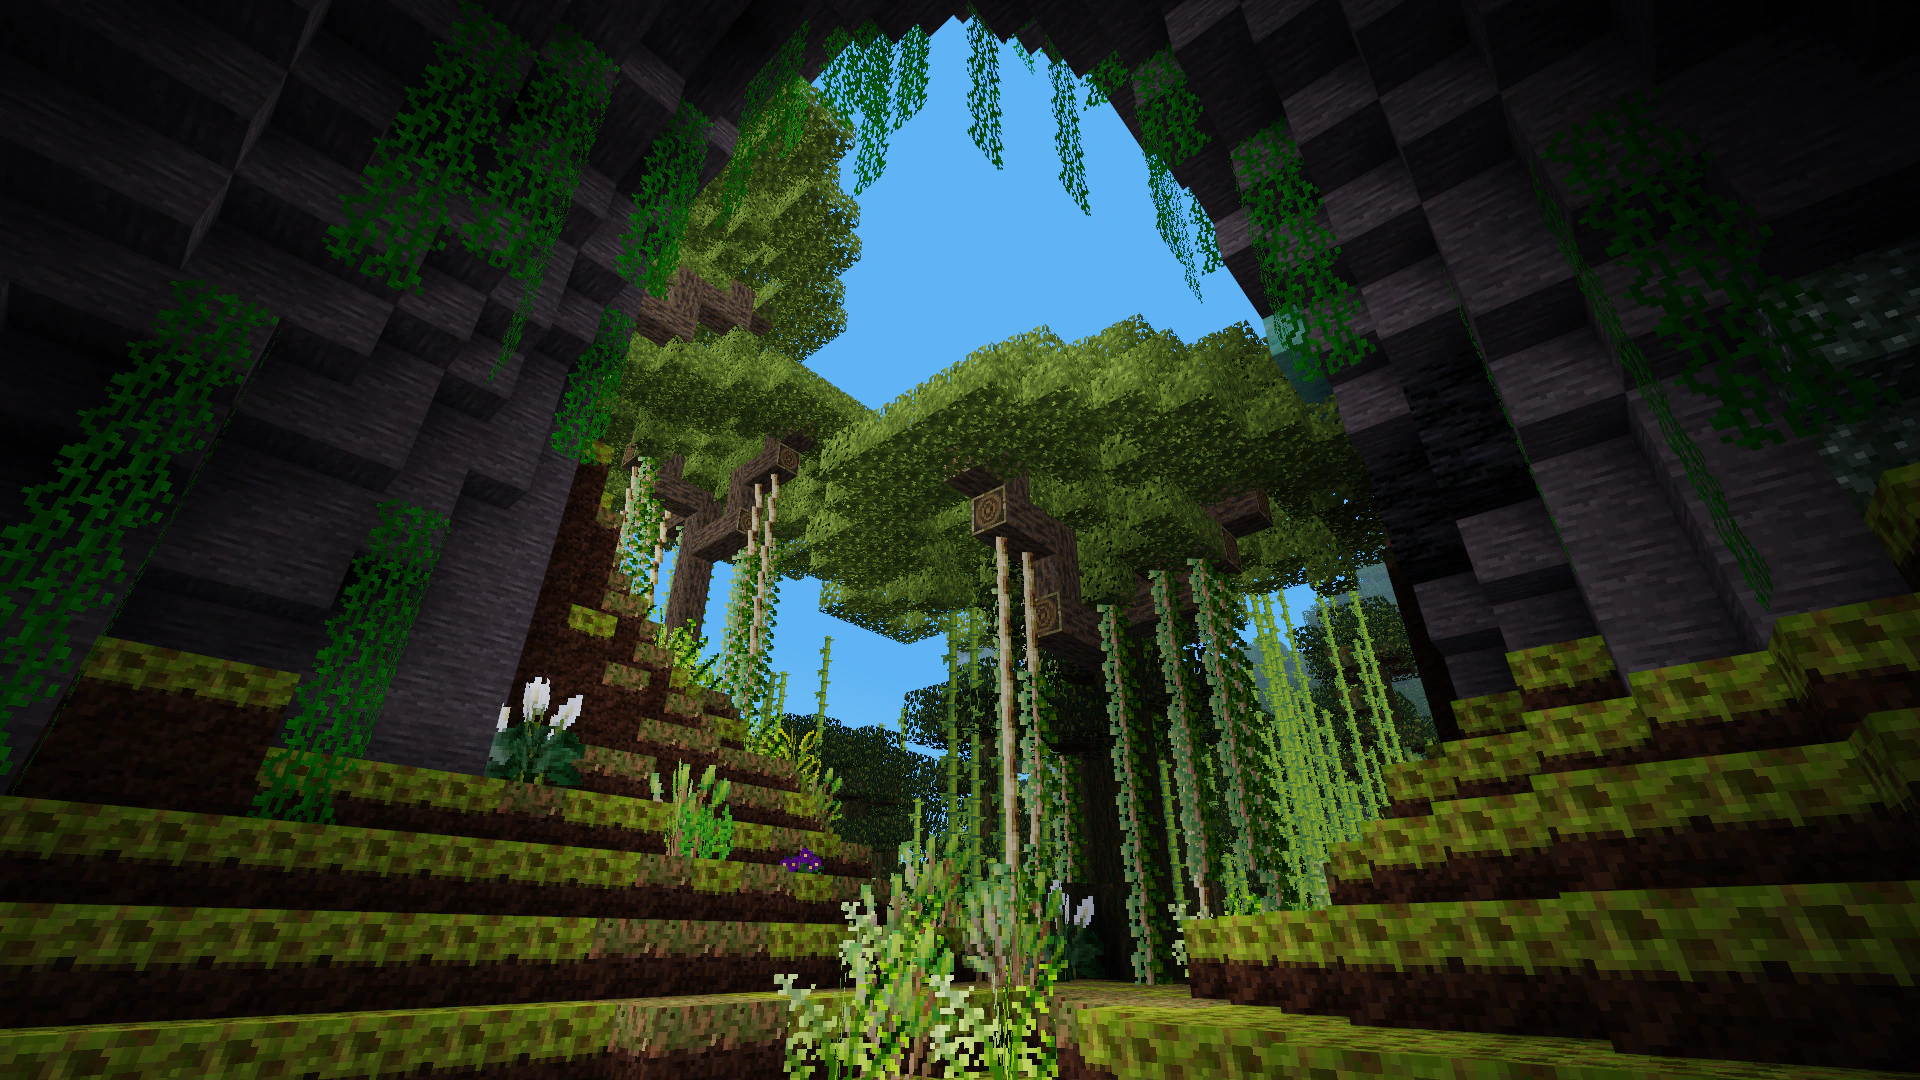
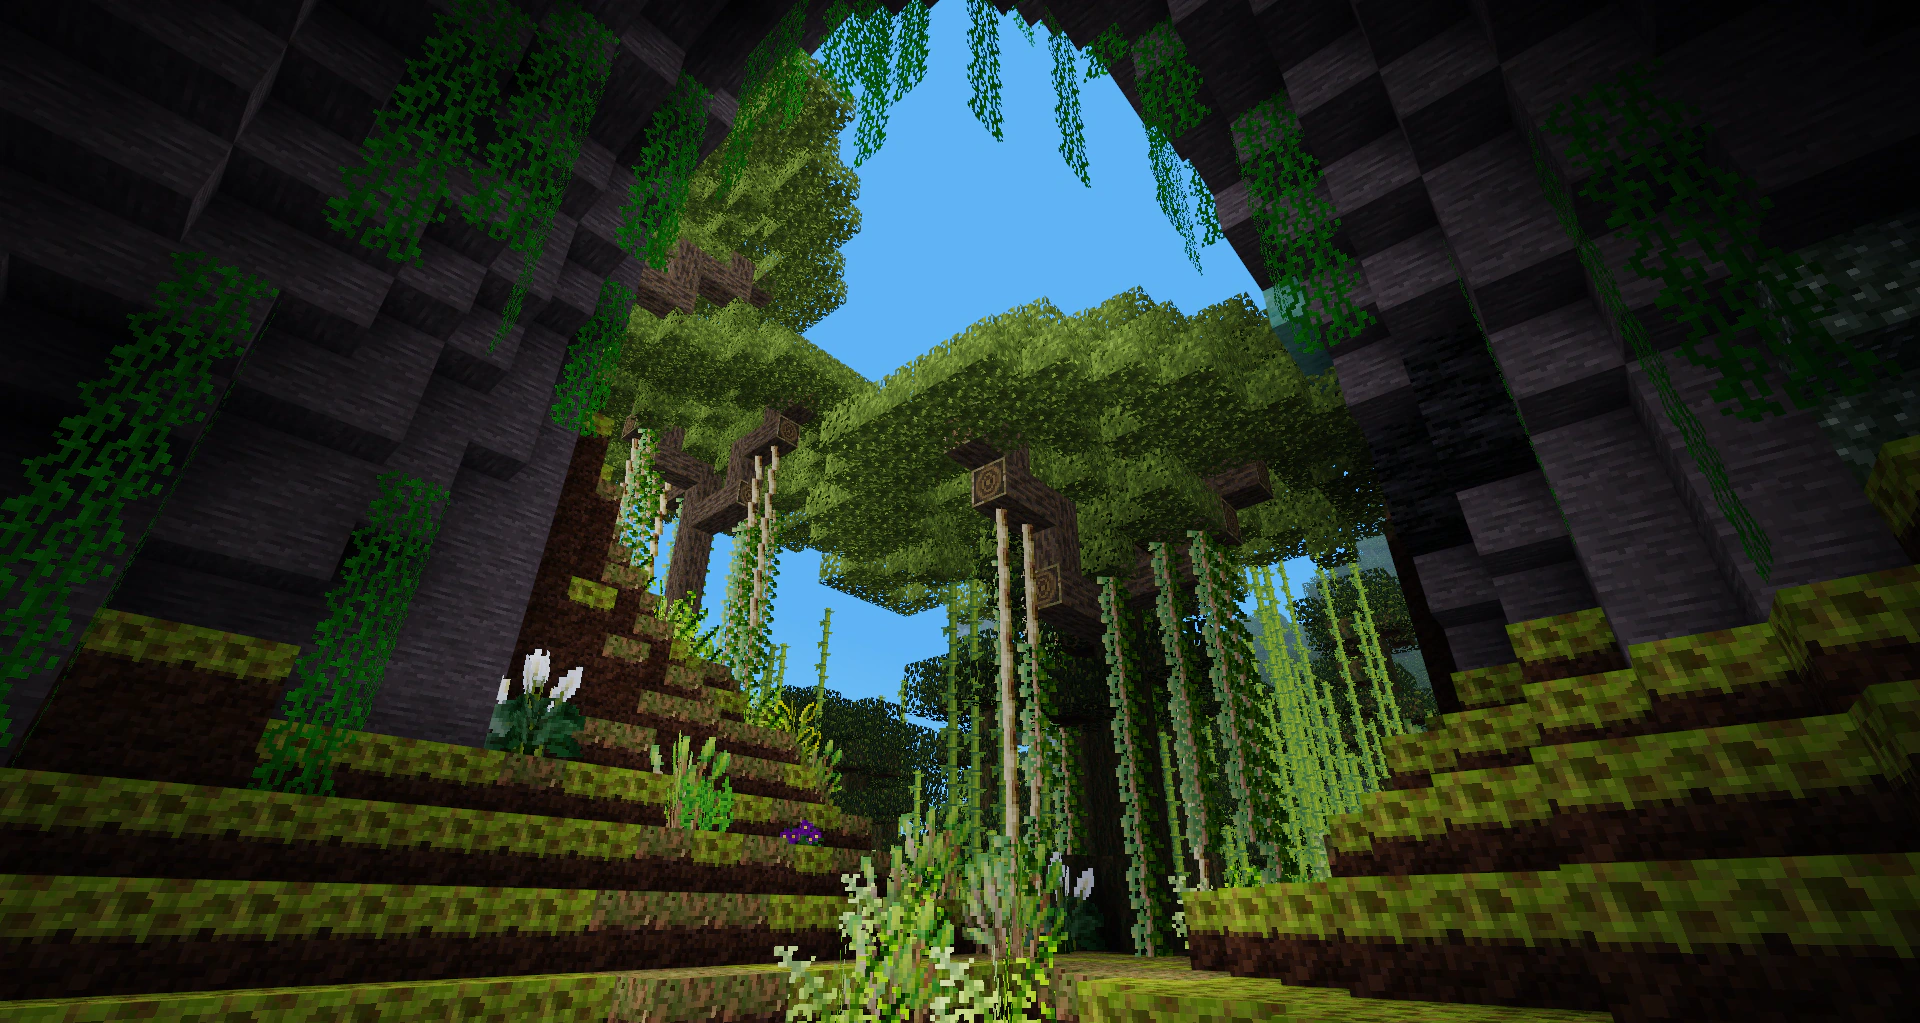
Add fourth game screenshot, adjust aspect ratio of asuna screenshot

diff --git a/_posts/2026-08-27-luanti-dmca-tracer-ai.md b/_posts/2026-08-27-luanti-dmca-tracer-ai.md
@@ -30,6 +30,10 @@ games:
     caption: >-
       <a href="https://content.luanti.org/packages/Wuzzy/lazarr/">Lazarr! by Wuzzy</a>, a puzzle game with lasers
     alt: Lazarr! by Wuzzy, a puzzle game with lasers
+  - src: /static/blog/2026_dmca/klots.webp
+    caption: >-
+      <a href="https://content.luanti.org/packages/Warr1024/klots/">Klots by Warr1024</a>, a 3D sliding block puzzle game
+    alt: Klots by Warr1024, a 3D sliding block puzzle game
 ---
 
 Luanti's Android app is currently not available on the
